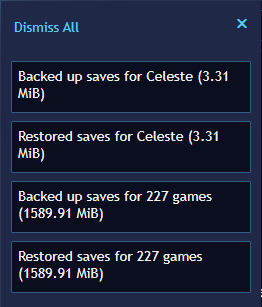
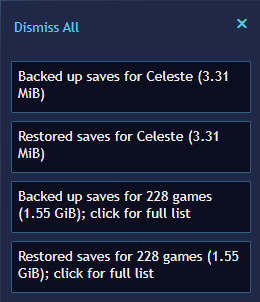
Release v0.2.0

Changed region(s): [[0.0308, 0.0, 1.0, 1.0], [0.0615, 0.0596, 0.3077, 0.1192], [0.8923, 0.0596, 0.9538, 0.0894]]

diff --git a/README.md b/README.md
@@ -11,7 +11,7 @@ back up your save data using [Ludusavi](https://github.com/mtkennerly/ludusavi).
 ### Ludusavi
 Refer to the [Ludusavi project](https://github.com/mtkennerly/ludusavi)
 for instructions on how to install Ludusavi itself. You'll need Ludusavi
-version 0.6.0 or newer.
+version 0.7.0 or newer.
 
 By default, the plugin will look for the Ludusavi executable in your `PATH`
 environment variable, but you can also configure the plugin with the full
@@ -64,7 +64,6 @@ library sources, so you'll need to configure Ludusavi's roots separately.
 * Only one set of save backups is kept for each game. If you decide that
   you'd like to archive a particular set of backups, simply copy them to an
   external drive or cloud storage.
-<!--
 * Although Ludusavi only knows about PC games by default, you can add custom
   entries in Ludusavi for non-PC games if you'd like. The plugin provides a
   setting to either look up those custom entries by the game's name on its own
@@ -75,7 +74,6 @@ library sources, so you'll need to configure Ludusavi's roots separately.
   the actual platform name. For example, if you enable the default suffix and
   you'd like a custom entry for `Some Game` on Nintendo 64, then in Ludusavi
   you would create a custom entry called `Some Game (Nintendo 64)`.
--->
 
 ## Development
 Please refer to [CONTRIBUTING.md](./CONTRIBUTING.md).

diff --git a/CHANGELOG.md b/CHANGELOG.md
@@ -1,4 +1,4 @@
-## Unreleased
+## v0.2.0 (2020-08-03)
 
 [Ludusavi v0.7.0 or newer](https://github.com/mtkennerly/ludusavi/releases) is now required.
 
@@ -15,7 +15,8 @@
   * When doing backups, the plugin now asks Ludusavi to try updating its manifest
     so that you can benefit from the latest updates without opening Ludusavi itself.
     If the update doesn't work (such as when your Internet is down), the plugin
-    will still operate as normal.
+    will still operate as normal; a connection is only required for the very first
+    download of the manifest.
   * File size units are now adjusted based on the size, rather than always using MiB.
   * The default backup directory now writes out the user folder in full rather
     than using the `~` placeholder (although that is still supported).
